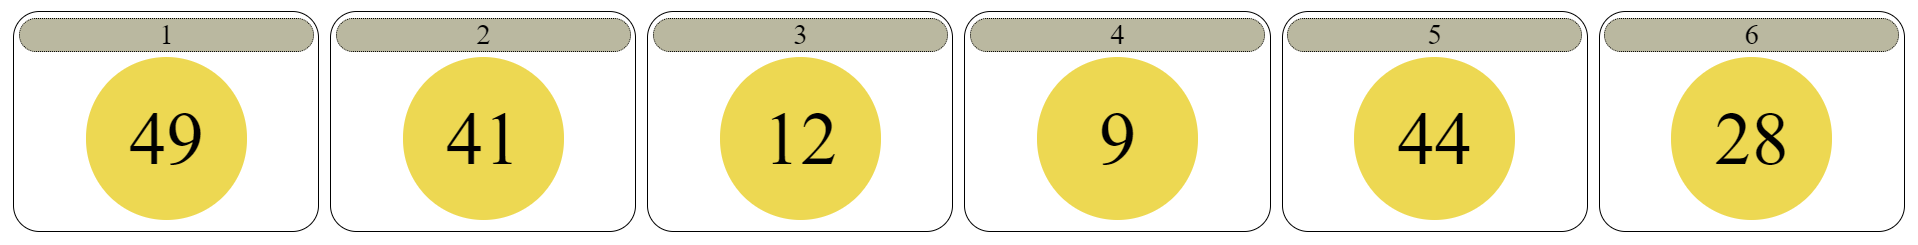
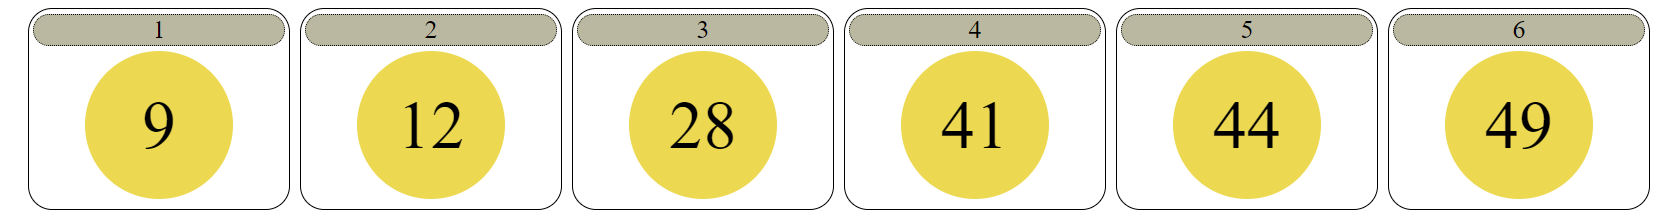
#update 1
#JS:
-change var to let,
-rename function geneTab to makeTabNumb,
-make a new function sort table,
-make a new function start,
assigning a new function start to windows.onload.

#HTML and CSS:
-rename class cont to num-box,
-moving tag script for with body to head,
-add new content: menu-content to have text and button.

diff --git a/index.html b/index.html
@@ -6,34 +6,44 @@
 	
 	<meta name="viewport" content="width=device-width, initial-scale=1">
 	<link href="main.css" rel="stylesheet">
+	<script src="generatorLiczb.js"></script>
 </head>
 <body>
 	<main id="content">
-		<div class="cont">
-			<div class="lp">1</div>
-			<div class="num"></div>     
+		<div class="generation-number">
+			<div class="num-box">
+				<div class="lp">1</div>
+				<div class="num"></div>     
+			</div>
+			<div class="num-box">
+				<div class="lp">2</div>
+				<div class="num"></div>
+			</div>
+			<div class="num-box">
+				<div class="lp">3</div>
+				<div class="num"></div>
+			</div>
+			<div class="num-box">
+				<div class="lp">4</div>
+				<div class="num"></div>
+			</div>
+			<div class="num-box">
+				<div class="lp">5</div>
+				<div class="num"></div>
+			</div>
+			<div class="num-box">
+				<div class="lp">6</div>
+				<div class="num"></div>
+			</div>
 		</div>
-		<div class="cont">
-			<div class="lp">2</div>
-			<div class="num"></div>
-		</div>
-		<div class="cont">
-			<div class="lp">3</div>
-			<div class="num"></div>
-		</div>
-		<div class="cont">
-			<div class="lp">4</div>
-			<div class="num"></div>
-		</div>
-		<div class="cont">
-			<div class="lp">5</div>
-			<div class="num"></div>
-		</div>
-		<div class="cont">
-			<div class="lp">6</div>
-			<div class="num"></div>
-		</div>
+		<nav class="menu-content">
+			<div class="text">
+				<p>Wylosuj swoje nowe szczęśliwe liczby</p>
+			</div>
+			<div class="menu-button">
+				<button class="btn" onclick="start()">Losuj</button>
+			</div>
+		</nav>
 	</main>
-	<script src="generatorLiczb.js"></script>
 </body>
 </html>

diff --git a/generatorLiczb.js b/generatorLiczb.js
@@ -1,18 +1,19 @@
-function geneTab() {
-  const numbers = [];
-  while(numbers.length < 6) {
-	var num = random();
-	if (checkTab(num, numbers)) {
-		numbers.push(num);
-	  }
-  }
-  numbers.sort(function(a, b) {return a-b});
-  return numbers;
+function makeTabNumb() {
+	const numbers = [];
+	let i = 0;
+	while (numbers.length < 6) {
+		let num = random();
+		if (checkTab(num, numbers)) {
+				numbers[i] = num;
+				i++;
+			}
+		}
+	return numbers;
 }
 
 function checkTab(num, tab) {
-	for (var i = 0; i < tab.length; i++) {	
-		if (num == tab[i]){
+	for (let i = 0; i < tab.length; i++) {	
+		if (tab[i] == num){
 			return false;
 		}
 	}
@@ -20,18 +21,26 @@ function checkTab(num, tab) {
 }
 
 function random() {
-  var numRand = Math.floor(Math.random() * 49) + 1;
+  let numRand = Math.floor(Math.random() * 49) + 1;
   return numRand;
 }
 
-function displayNumber(tab) {
-  var view = document.getElementsByClassName("num");
-  for (var i = 0; i < view.length; i++) {
-    view[i].innerHTML = tab[i];
-  }
+function displayNumbers(tab) {
+	let view = document.getElementsByClassName("num");
+	for (let i = 0; i < view.length; i++) {
+		view[i].innerHTML = tab[i];
+	}
 }
 
-window.onload = function() {
-  var tab = geneTab();
-  displayNumber(tab);
+function sortNumbers(tab) {
+	tab.sort(function(a, b) {return a-b});
+	return tab;
 }
+
+function start() {
+	const tab = makeTabNumb();
+	sortNumbers(tab);
+	displayNumbers(tab);
+}
+
+window.onload = start;

diff --git a/main.css b/main.css
@@ -1,36 +1,60 @@
 #content,
-.cont,
+.menu-content,
+.menu-button,
+.generation-number,
+.num-box,
 .lp,
 .num {
   display: flex;
 }
-#content {
-  justify-content: space-evenly;
+#content,
+.menu-content
+ {
+  align-content: center;
+  flex-direction: column;
+  flex-wrap: wrap;
 }
-.cont {
-  border-radius: 24px;
-  border: 1px solid;
-  font-size: 26px;
-  width: 20%;
-  margin: 5px;
-  padding: 5px;
+.menu-button {
+  justify-content: center;
+}
+.text {
+  font-size: 32px;
+}
+.num-box {
   align-items: center;
   flex-direction: column;
+  border: 1px solid;
+  border-radius: 24px;
+  font-size: 26px;
+  width: 250px;
+  margin: 5px;
+  padding: 5px;
 }
 .lp {
-  border-radius: 24px;
-  width: 100%;
   justify-content: center;
   border: 1px dotted;
+  border-radius: 24px;
   background-color: #bab8a0;
+  width: 100%;
+}
+.btn {
+  border: 1px solid;
+  border-radius: 24px;
+  background-color: #bab8a0;
+  cursor: pointer;
+  font-size: 38px;
+  width: 250px;
+}
+.btn:hover {
+  background-color: #a9a790;
 }
 .num {
+  align-items: center;
+  justify-content: center;
   border-radius: 100px;
   background-color: #edd852;
   font-size: 68px;
-  width: 55%;
   height: 148px;
+  width: 148px;
   margin: 5px;
-  justify-content: center;
-  align-items: center;
 }

diff --git a/README.md b/README.md
@@ -1,2 +1,7 @@
 # Lotto - Generator Liczb
- 
+
+EN:
+This is a lotto number generator, I'm making it for fun and to test my programming skills. These drawn numbers don't give you any chance of winning in this game, but who knows? you can always try and maybe you will succeed ;)
+
+PL:
+To jest generator liczb do gry w lotto, tworze go dla zabawy i sprawdzenia swoich umiejętności programowania. Te wylosowane liczny nie dają Ci zadnej sansy na wygranie w tej grze, ale kto wie? zawsze możesz spróbować i może Ci sie uda;)
